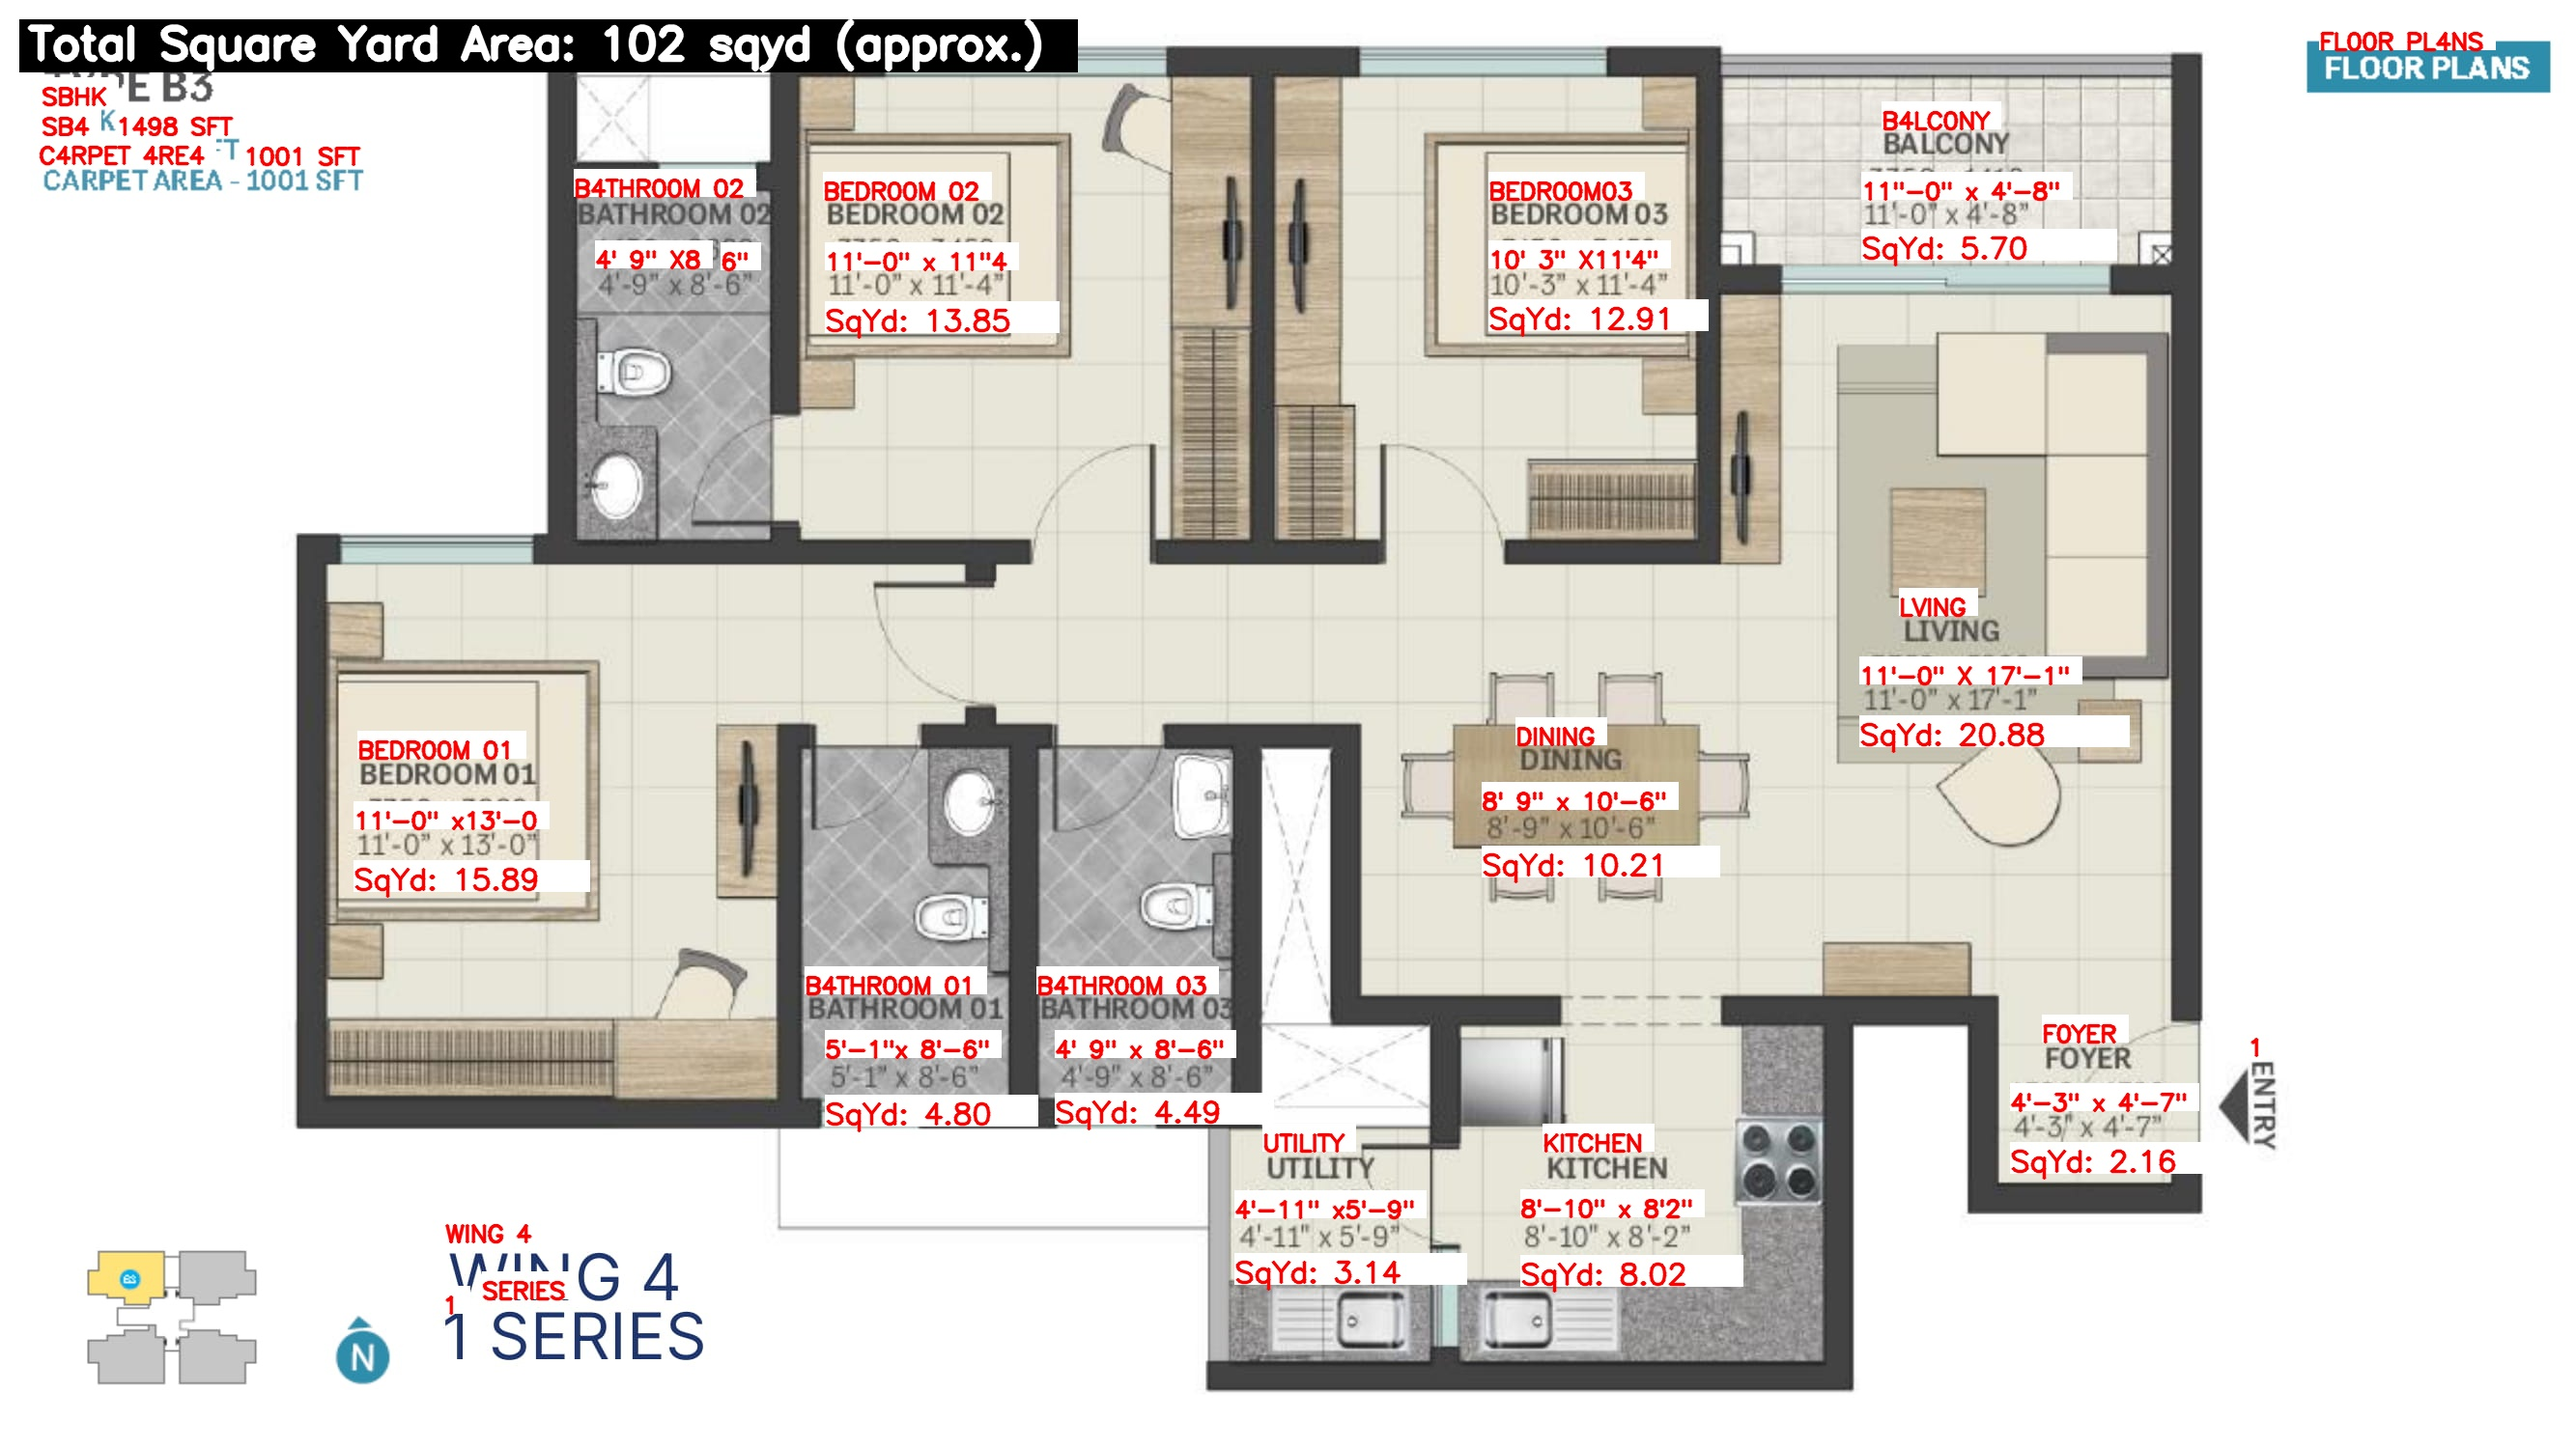
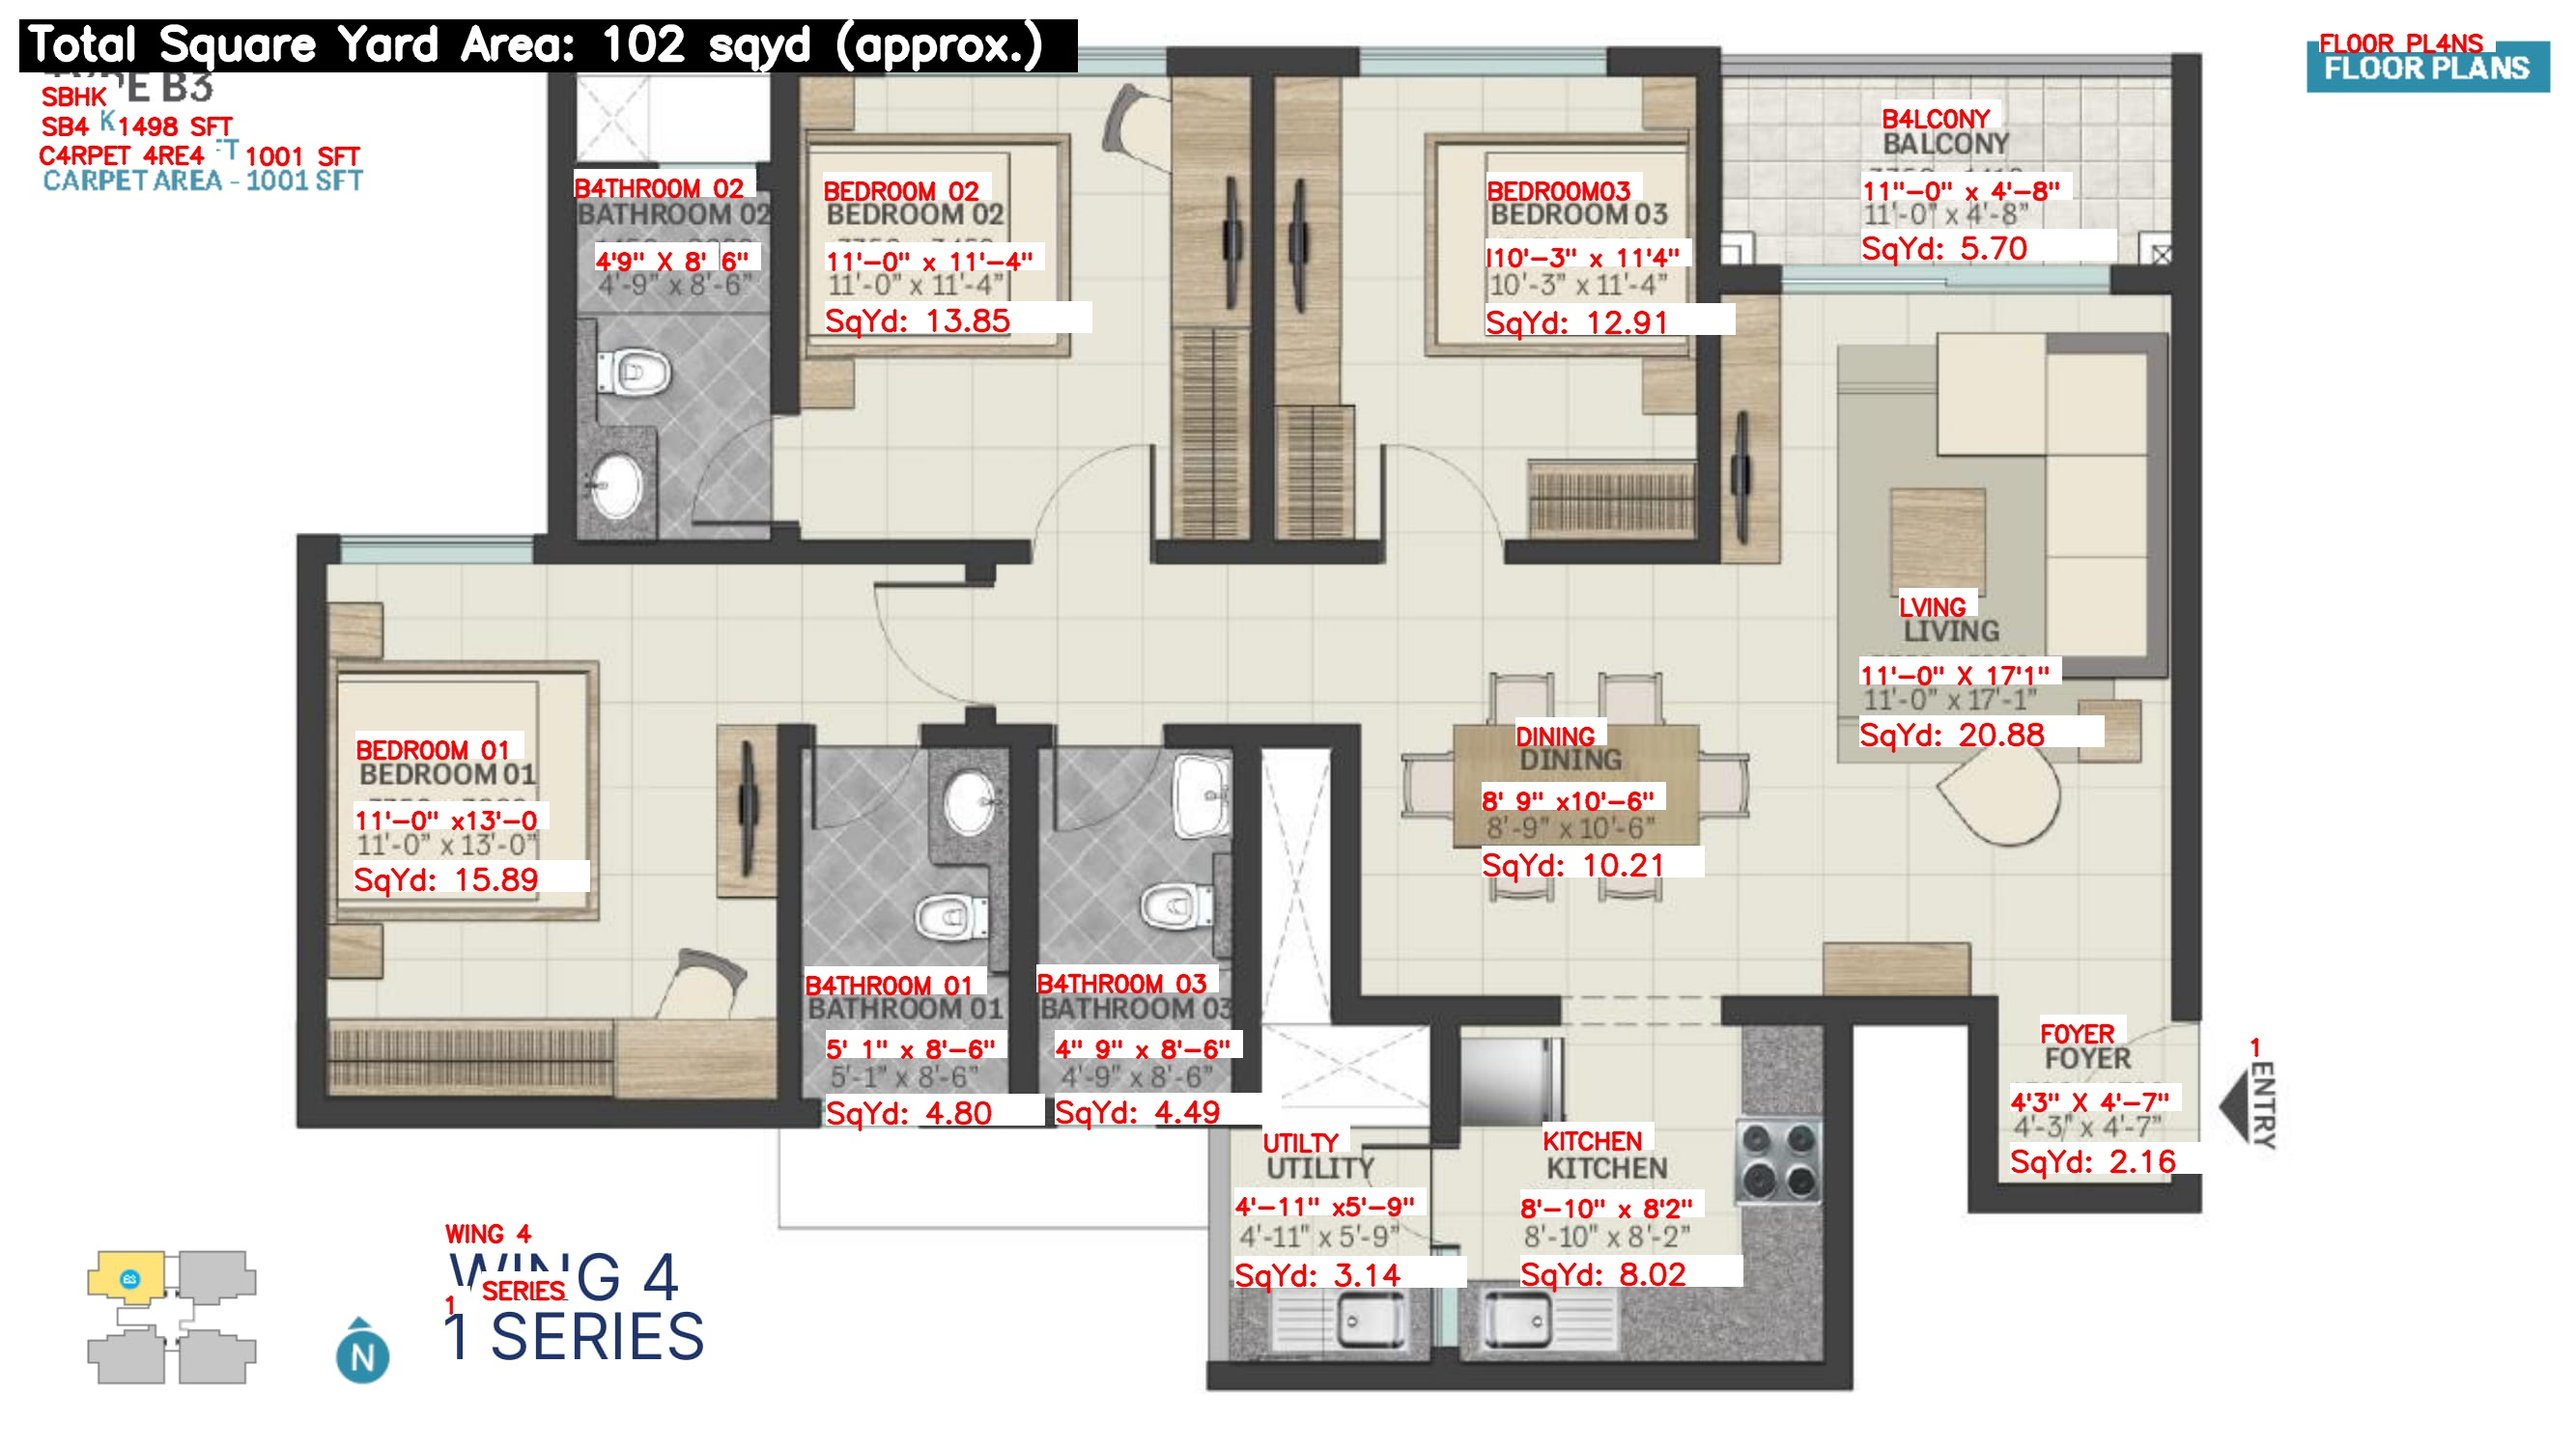
Req and exceptino logger

diff --git a/templates/error.html b/templates/error.html
@@ -1,1 +1,30 @@
-<h1>Error</h1>
+<!DOCTYPE html>
+<html lang="en">
+<head>
+    <meta charset="UTF-8">
+    <meta name="viewport" content="width=device-width, initial-scale=1.0">
+    <title>Error</title>
+    <style>
+        body {
+            font-family: Arial, sans-serif;
+            background-color: #f4f4f4;
+            text-align: center;
+            padding: 20px;
+        }
+        .error-message {
+            background-color: #ffcccc;
+            border: 1px solid #f00;
+            padding: 10px;
+            margin: 20px auto;
+            max-width: 400px;
+        }
+    </style>
+</head>
+<body>
+    <h1>Error</h1>
+    <div class="error-message">
+        <p>{{ message }}</p>
+    </div>
+    <a href="/">Back to Upload Page</a>
+</body>
+</html>

diff --git a/app.py b/app.py
@@ -41,7 +41,7 @@ def process_image(file_path):
         
         # Load the original image
         original_image = cv2.imread(file_path)
-        darkness_factor = 1.25
+        darkness_factor = 1.28
 
         # Read the image with OpenCV
         image = cv2.imread(file_path)
@@ -65,7 +65,7 @@ def process_image(file_path):
         extracted_data = []
 
         # Define a regex pattern to match dimensions like "11'-0" x 13'-0" and square yard areas like "200 sq. yd"
-        pattern = r'(\d{1,2}[\'\"]?\s?[-.]?\s?\d{1,2}[\'\"]?"\s?[xX*]\s?\d{1,2}[\'\"]?\s?[-.]?\s?\d{1,2}[\'\"]?)|(\d+\.?\d*)\s?sq\.?\s?yd'
+        pattern = r'(\d{1,2})[\'\"*]?\s?[-.]?\s?(\d{1,2})[\'\"*]?"?\s?[xX*]?\s?(\d{1,2})[\'\"*]?\s?[-.]?\s?(\d{1,2})[\'\"*]?'
 
         # Define an avoidance pattern to skip certain patterns during extraction
         avoid_pattern = r'^\d{4}\s?[*xX]\s?\d{4}$'
@@ -87,7 +87,7 @@ def process_image(file_path):
                 # If the match is a dimension pattern
                 if match.group(1):
                     # Calculate the square yard area
-                    dimensions = re.findall(r'(\d{1,2}[\'\"]?\s?[-.]?\s?\d{1,2}[\'\"]?"\s?[xX*]\s?\d{1,2}[\'\"]?\s?[-.]?\s?\d{1,2}[\'\"]?)', text)
+                    dimensions = re.findall(r'(\d{1,2})[\'\"*]?\s?[-.]?\s?(\d{1,2})[\'\"*]?"?\s?[xX*]?\s?(\d{1,2})[\'\"*]?\s?[-.]?\s?(\d{1,2})[\'\"*]?', text)
                     area = 1.0  # Default value
                     if dimensions:
                         # Extract the dimensions and calculate the area
@@ -216,6 +216,7 @@ def upload_image():
             # Process the uploaded image
             processed_image, extracted_data = process_image(filename)
 
+            type(processed_image)
             if processed_image:
                 # Calculate the total square yard area
                 total_sqyd_area = sum(data['sqyd_area'] for data in extracted_data if data.get('sqyd_area') is not None)

diff --git a/exception.py b/exception.py
@@ -1,0 +1,45 @@
+import sys
+
+
+def error_message_detail(error, error_detail: sys):
+    """
+    It returns the error message with the file name, try block line number, exception block line number
+    and the error message
+
+    :param error: The error message that was raised
+    :param error_detail: sys
+    :type error_detail: sys
+    :return: The error message
+    """
+
+    _, _, exc_tb = error_detail.exc_info()
+    file_name = exc_tb.tb_frame.f_code.co_filename
+    try_block_line_no = exc_tb.tb_lineno
+    Exception_block_line_no = exc_tb.tb_frame.f_lineno
+    error_message = f"""Python Script :
+    [{file_name}] 
+    at try block line number : [{try_block_line_no}] and exception block line no : [{Exception_block_line_no}] 
+    error message : 
+    [{str(error)}]
+    """
+    return error_message
+
+
+class CustomException(Exception):
+    def __init__(self, error_message, error_detail: sys):
+        """
+        A constructor function that initializes the class.
+
+        :param error_message: The error message that will be displayed to the user
+        :param error_detail: This is the error message that you want to display
+        :type error_detail: sys
+        """
+        super().__init__(error_message)
+        self.error_message = error_message_detail(
+            error_message, error_detail=error_detail)
+
+    def __str__(self):
+        return self.error_message
+
+    def __repr__(self) -> str:
+        return CustomException.__name__.str()

diff --git a/logger.py b/logger.py
@@ -1,0 +1,24 @@
+import os
+import sys
+import logging
+from datetime import datetime
+
+logging_string = "[%(asctime)s] || %(filename)s || %(lineno)d || %(name)s || %(funcName)s() || %(lineno)s || %(levelname)s || %(message)s"
+
+log_dir = 'logs'
+
+
+def get_current_time_stamp():
+    return f"{datetime.now().strftime('%Y%m%d%H')}"
+
+log_file_path = os.path.join(log_dir, get_current_time_stamp(), 'running_logs.log')
+os.makedirs(os.path.dirname(log_file_path), exist_ok=True)
+
+logging.basicConfig(level=logging.INFO,
+                    format=logging_string,
+                    handlers=[
+                        logging.FileHandler(log_file_path),
+                        logging.StreamHandler(sys.stdout)
+                    ])
+
+logger = logging.getLogger()
